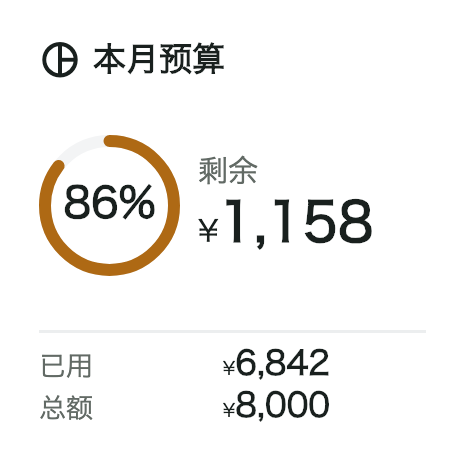
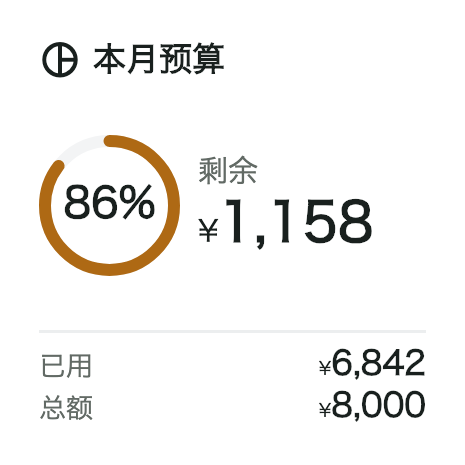
fix(widget): 固定预算金额右对齐基准

Changed region(s): [[0.4817, 0.843, 0.9333, 0.9032], [0.4817, 0.7527, 0.9333, 0.8129]]

diff --git a/test/widget/budget_view_test.dart b/test/widget/budget_view_test.dart
@@ -73,6 +73,8 @@ void main() {
           dailyAvailable: 105.3,
         ),
         currencyCode: 'CNY',
+        usedLabel: 'Used',
+        totalLabel: 'Total',
         themeColor: const Color(0xFFF5A623),
         redForIncome: true,
         dark: false,
@@ -84,13 +86,14 @@ void main() {
     await tester.pump();
 
     expect(tester.takeException(), isNull);
-    for (final value in ['剩', '已用', '总额', '¥1,158', '¥6,842', '¥8,000']) {
+    for (final value in ['剩', 'Used', 'Total', '¥1,158', '¥6,842', '¥8,000']) {
       expect(find.text(value), findsOneWidget);
     }
-    expect(tester.getRect(find.text('已用')).left,
-        closeTo(tester.getRect(find.text('总额')).left, .01));
-    expect(tester.getRect(find.text('¥6,842')).right,
-        closeTo(tester.getRect(find.text('¥8,000')).right, .01));
+    expect(tester.getRect(find.text('Used')).left,
+        closeTo(tester.getRect(find.text('Total')).left, .01));
+    final right = tester.getRect(find.byType(BudgetView)).right - 13;
+    expect(tester.getRect(find.text('¥6,842')).right, closeTo(right, .01));
+    expect(tester.getRect(find.text('¥8,000')).right, closeTo(right, .01));
   });
 
   CategoryBudgetUsage category(String name, double used, double budget) {

diff --git a/lib/widget/views/budget_view.dart b/lib/widget/views/budget_view.dart
@@ -87,7 +87,7 @@ class BudgetView extends StatelessWidget {
         crossAxisAlignment: CrossAxisAlignment.baseline,
         textBaseline: TextBaseline.alphabetic,
         children: [
-          Flexible(flex: 2, child: _caption(label, fontSize: small ? 9 : 10)),
+          Expanded(flex: 2, child: _caption(label, fontSize: small ? 9 : 10)),
           const SizedBox(width: 4),
           Expanded(
             flex: 3,

diff --git a/lib/widget/widget_render_content.dart b/lib/widget/widget_render_content.dart
@@ -10,7 +10,7 @@ import 'widget_spec.dart';
 
 // Bump when the drawing changes without a corresponding ledger or build change.
 const _widgetLayoutRevision = 'cards-4.0';
-const _budgetLayoutRevision = 2;
+const _budgetLayoutRevision = 3;
 
 /// The data and drawing inputs for one size, shared across its appearances.
 /// Only their hash is persisted alongside the PNG paths.
